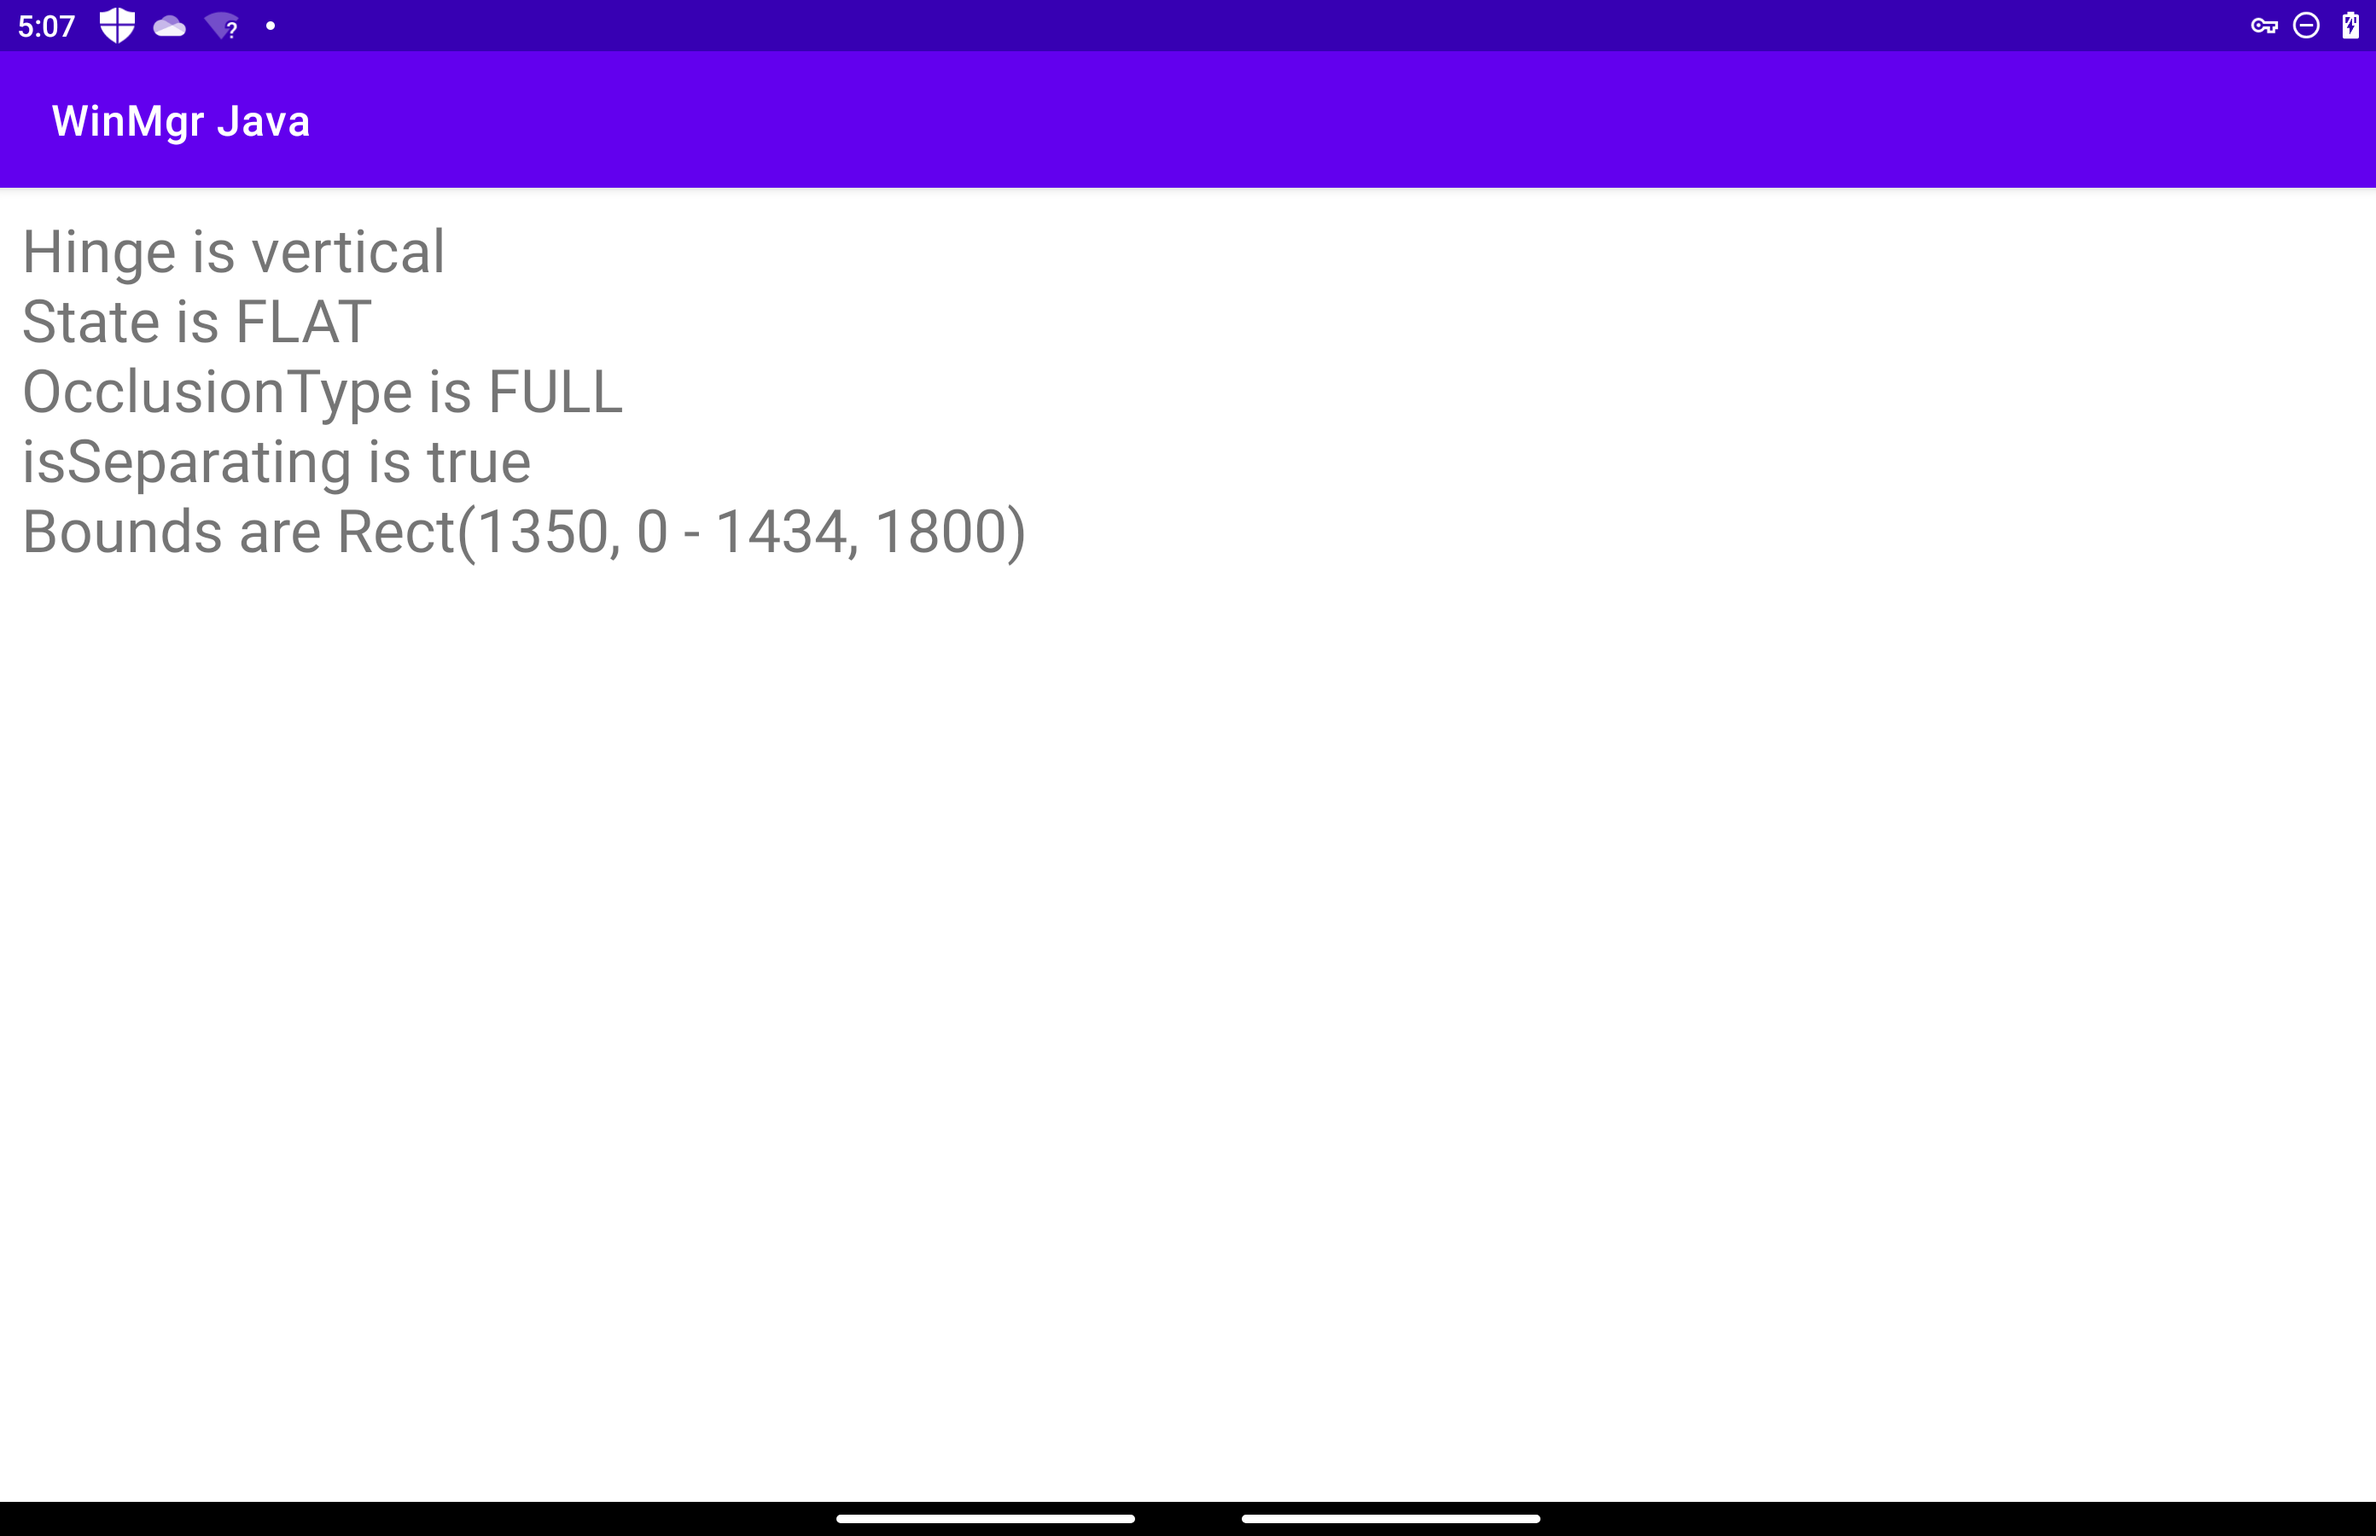
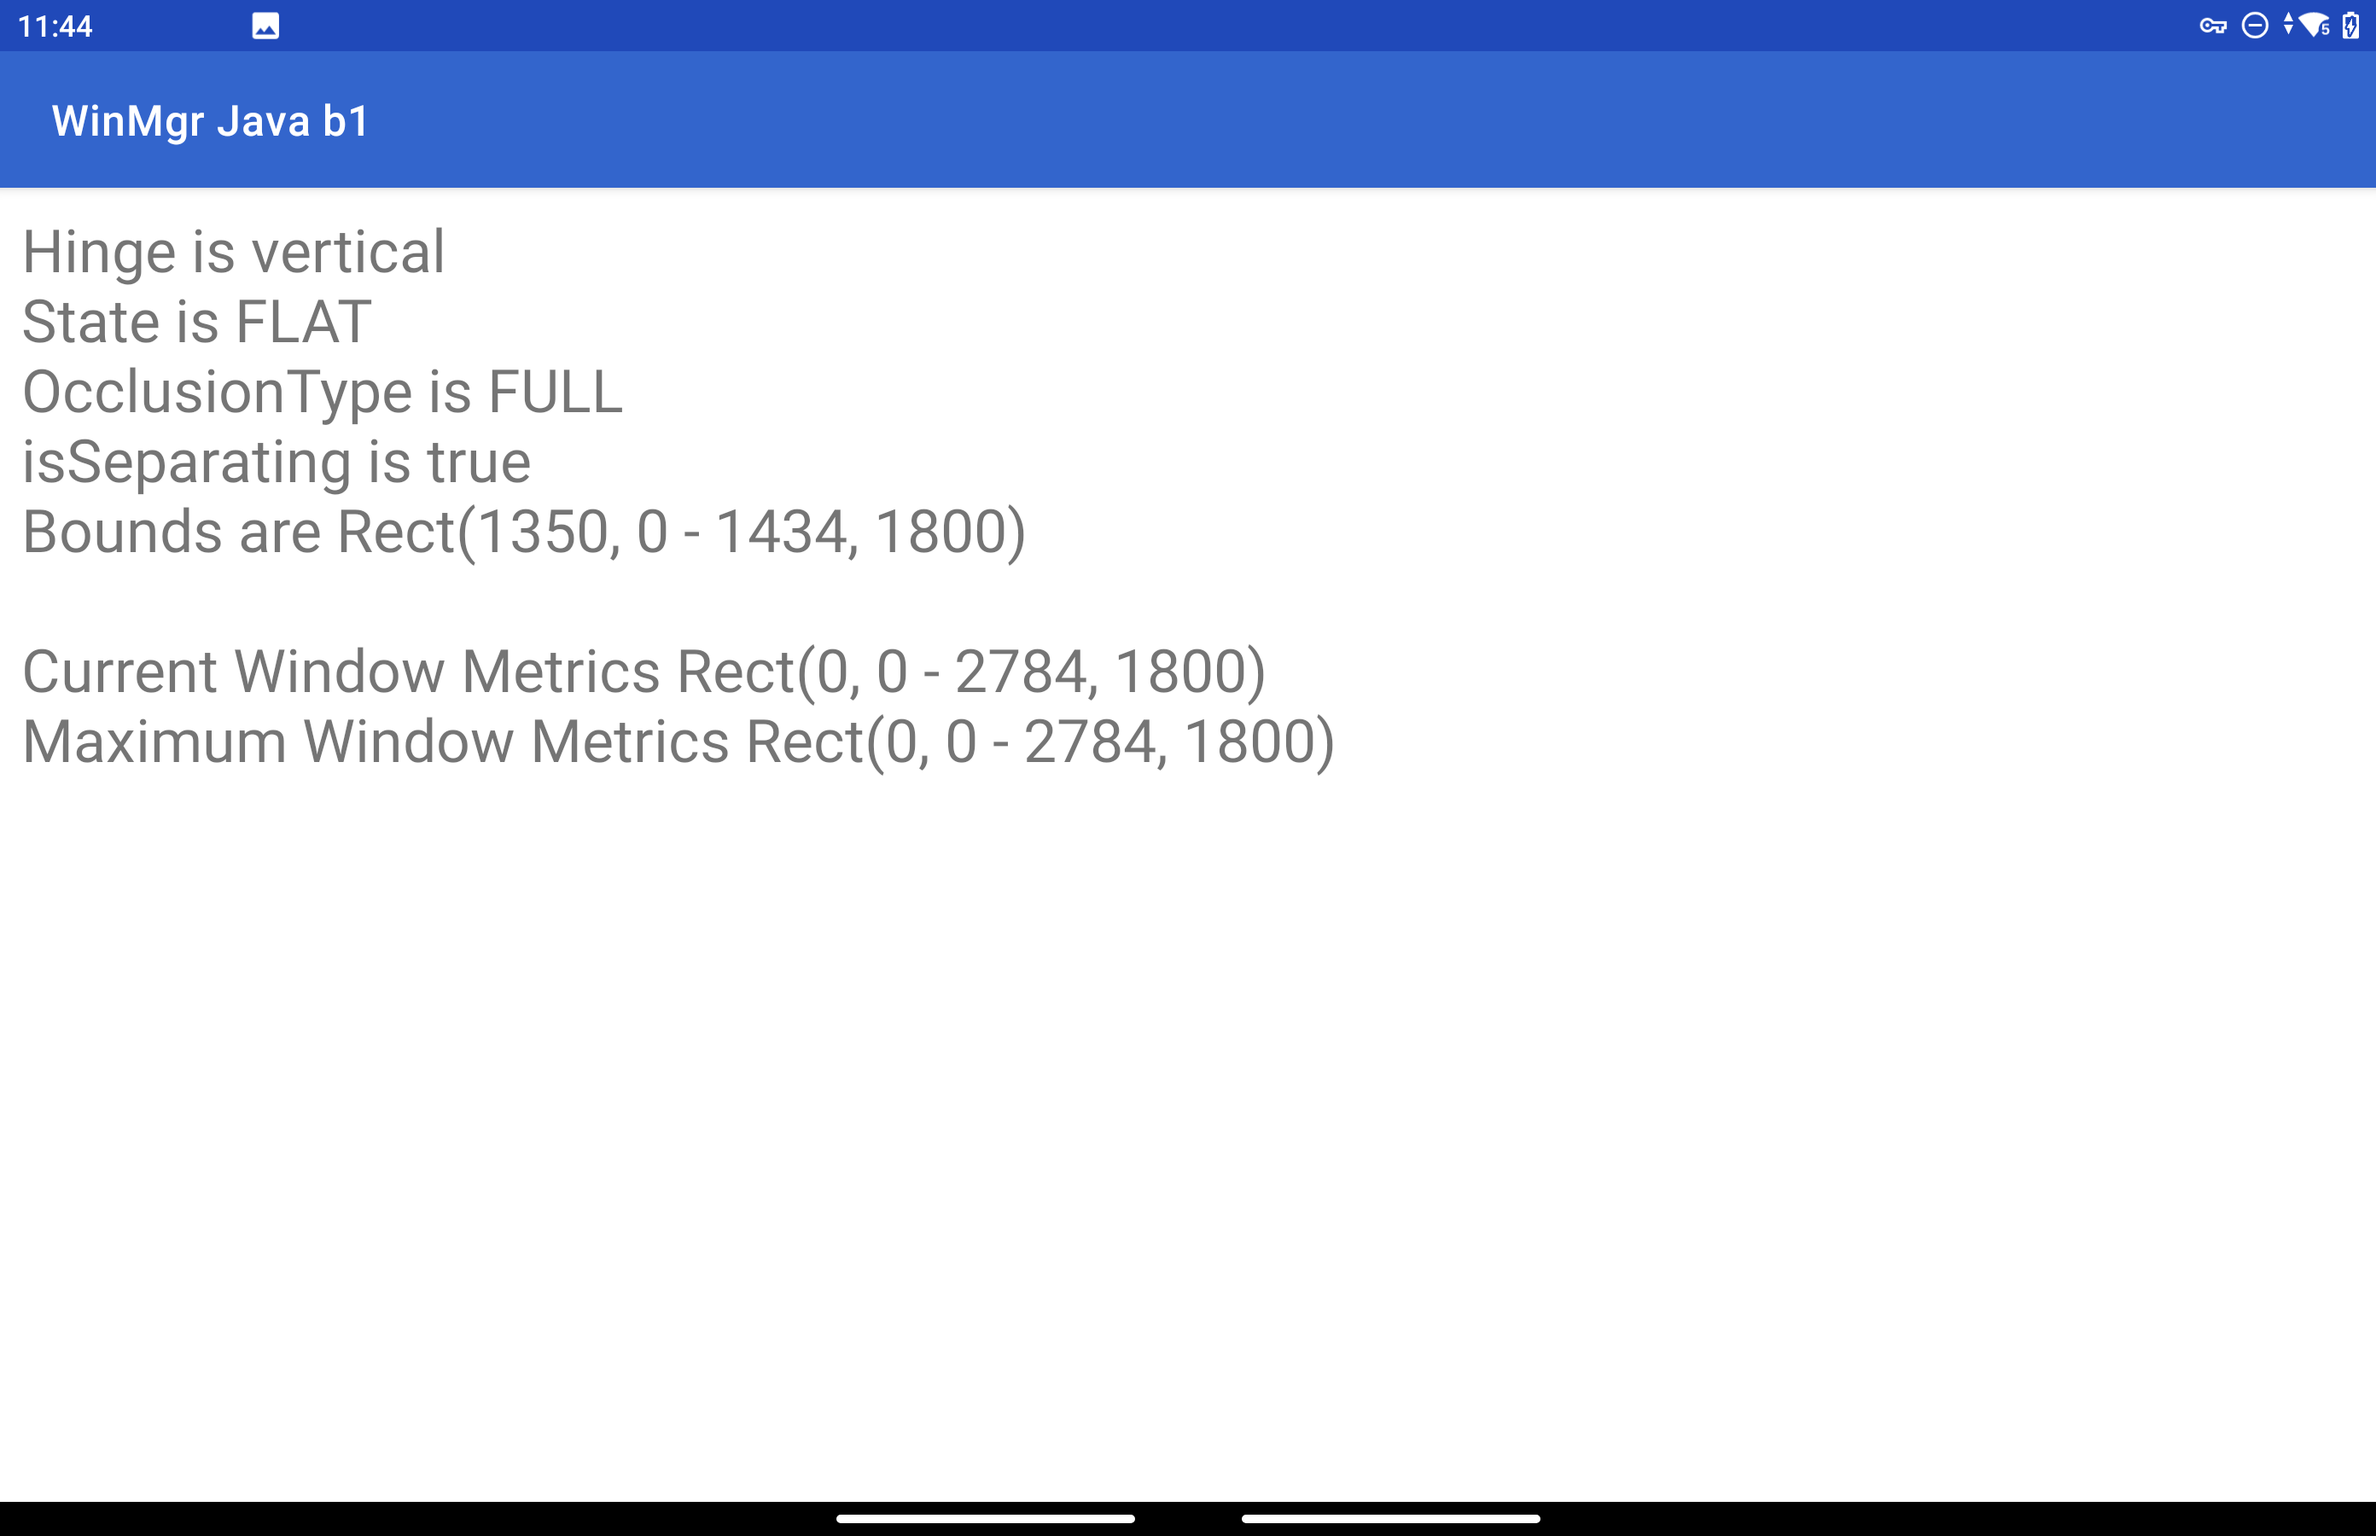
[window manager] update to beta01

Changed region(s): [[0.0, 0.0, 1.0, 0.1244], [0.0, 0.4044, 0.5625, 0.4978]]

diff --git a/WindowManager/app/src/main/java/net/conceptdev/windowmanagerjava/MainActivity.java b/WindowManager/app/src/main/java/net/conceptdev/windowmanagerjava/MainActivity.java
@@ -25,7 +25,7 @@ import android.widget.TextView;
 import com.google.android.material.internal.ContextUtils;
 
 /*
-* https://developer.android.com/jetpack/androidx/releases/window#window-1.0.0-alpha10
+* https://developer.android.com/jetpack/androidx/releases/window#window-1.0.0-beta01
 * */
 
 public class MainActivity extends AppCompatActivity {
@@ -55,24 +55,33 @@ public class MainActivity extends AppCompatActivity {
     protected void onStart() {
         super.onStart();
 
-        // WindowMetrics synchronous call
-        WindowMetrics wm = wmc.computeCurrentWindowMetrics(this);
-        Log.d(TAG, "wm.computeCurrentWindowMetrics: " + wm.getBounds());
-        wm = wmc.computeMaximumWindowMetrics(this);
-        Log.d(TAG, "wm.computeMaximumWindowMetrics: " + wm.getBounds());
-
         // WindowInfoRepository listener
         Log.d(TAG, "onStart add listener");
         wir.addWindowLayoutInfoListener(runOnUiThreadExecutor(), (windowLayoutInfo -> {
-            List<DisplayFeature> displayFeatures = windowLayoutInfo.getDisplayFeatures();
 
+            // WindowMetrics synchronous call
+            WindowMetrics wm = wmc.computeCurrentWindowMetrics(this);
+            wm = wmc.computeCurrentWindowMetrics(this);
+            String currentMetrics = wm.getBounds().toString();
+            wm = wmc.computeMaximumWindowMetrics(this);
+            String maxMetrics = wm.getBounds().toString();
+            String outMetrics = "\n\n";
+            outMetrics += "Current Window Metrics " + currentMetrics;
+            outMetrics += "\n";
+            outMetrics += "Maximum Window Metrics " + maxMetrics;
+
+            // WindowInfoRepository DisplayFeatures
+            List<DisplayFeature> displayFeatures = windowLayoutInfo.getDisplayFeatures();
             if (displayFeatures.isEmpty()) {
-                outputText.setText("no display features");
+                String out = getString(R.string.no_features);
+                out += outMetrics;
+                outputText.setText(out);
                 return;
             }
             else {
                 // update screen
                 Log.d(TAG, "window layout contains display feature/s");
+                String finalOutMetrics = outMetrics;
                 displayFeatures.forEach(displayFeature -> {
                     FoldingFeature foldingFeature = (FoldingFeature)displayFeature;
                     if (foldingFeature != null)
@@ -91,6 +100,7 @@ public class MainActivity extends AppCompatActivity {
                         out += "isSeparating is " + foldingFeature.isSeparating();
                         out += "\n";
                         out += "Bounds are " + foldingFeature.getBounds().toString();
+                        out += finalOutMetrics;
                         outputText.setText(out);
 
                         return; // only works for one hinge/fold!

diff --git a/WindowManager/README.md b/WindowManager/README.md
@@ -1,20 +1,19 @@
 # Jetpack Window Manager for Java
 
-Surface Duo sample that implements [Jetpack Window Manager alpha10](https://developer.android.com/jetpack/androidx/releases/window#window-1.0.0-alpha10) using Java and the **androidx.window:window-java** adapter package.
+Surface Duo sample that implements [Jetpack Window Manager beta01](https://developer.android.com/jetpack/androidx/releases/window#window-1.0.0-beta01) using Java and the **androidx.window:window-java** adapter package.
 
 ![Surface Duo running sample that shows window manager data using Java](Screenshots/winmgr-java-framed.png)
 
 For Kotlin, refer to the [Surface Duo Window Manager samples repo](https://github.com/microsoft/surface-duo-window-manager-samples) and the [Android user-interface sample for Window Manager](https://github.com/android/user-interface-samples/tree/master/WindowManager).
 
-
 ## Using Java
 
-The [alpha10 release](https://developer.android.com/jetpack/androidx/releases/window#window-1.0.0-alpha10) introduced a different API using the `WindowInfoRepository` class which is optimized for Kotlin, and a separate package **window-java** that includes a `WindowInfoRepositoryCallbackAdapter` that makes it easy to use from Java.
+The [beta01 release](https://developer.android.com/jetpack/androidx/releases/window#window-1.0.0-beta01) introduced a different API using the `WindowInfoRepository` class which is optimized for Kotlin, and a separate package **window-java** that includes a `WindowInfoRepositoryCallbackAdapter` that makes it easy to use from Java.
 
 ```gradle
 dependencies {
-    implementation "androidx.window:window:1.0.0-alpha10"
-    implementation "androidx.window:window-java:1.0.0-alpha10"
+    implementation "androidx.window:window:1.0.0-beta01"
+    implementation "androidx.window:window-java:1.0.0-beta01"
 ```
 
 ```java
